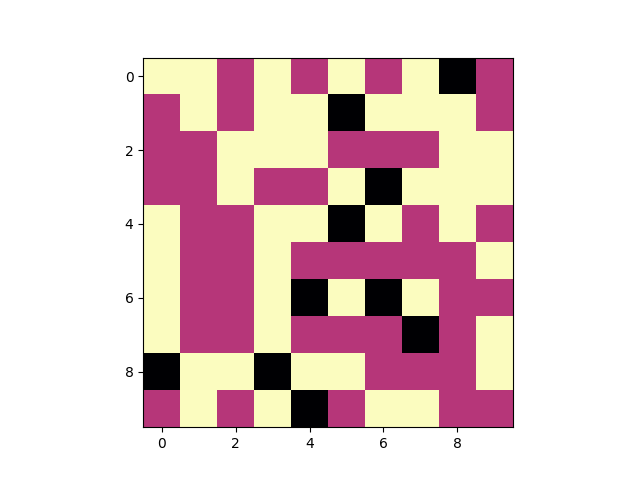
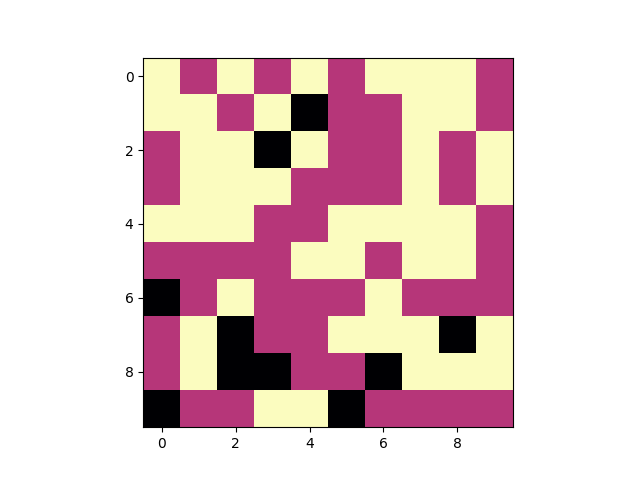
Change README.md. Add more screens

Changed region(s): [[0.2188, 0.125, 0.8125, 0.9062], [0.6875, 0.125, 0.75, 0.2188]]

diff --git a/README.md b/README.md
@@ -1,9 +1,12 @@
 # Модель Шеллинга
 #### Примеры работы программы
-1. Входные данные: N = 10, количество итераций = 100
-Начальное заполнение
-<img alt="Alt text" height="200" src="/screens/myplot10x100_1.png" width="400"/>
-После сегрегации  
-![Alt text](/screens/myplot10x100_2.png "")
-2. 
-
+1. Входные данные: N = 10, количество итераций = 100  
+**Начальное заполнение**
+![Alt text](/screens/myplot10x100_1.png "")  
+**После сегрегации** (Заняло: 28 итерации)
+![Alt text](/screens/myplot10x100_2.png "")  
+2. Входные данные: N = 100, количество итераций = 10000  
+**Начальное заполнение**  
+![Alt text](/screens/myplot100x10000_1.png "")  
+**После сегрегации** (Заняло: 992 итерации)
+![Alt text](/screens/myplot100x10000_2.png "")  
